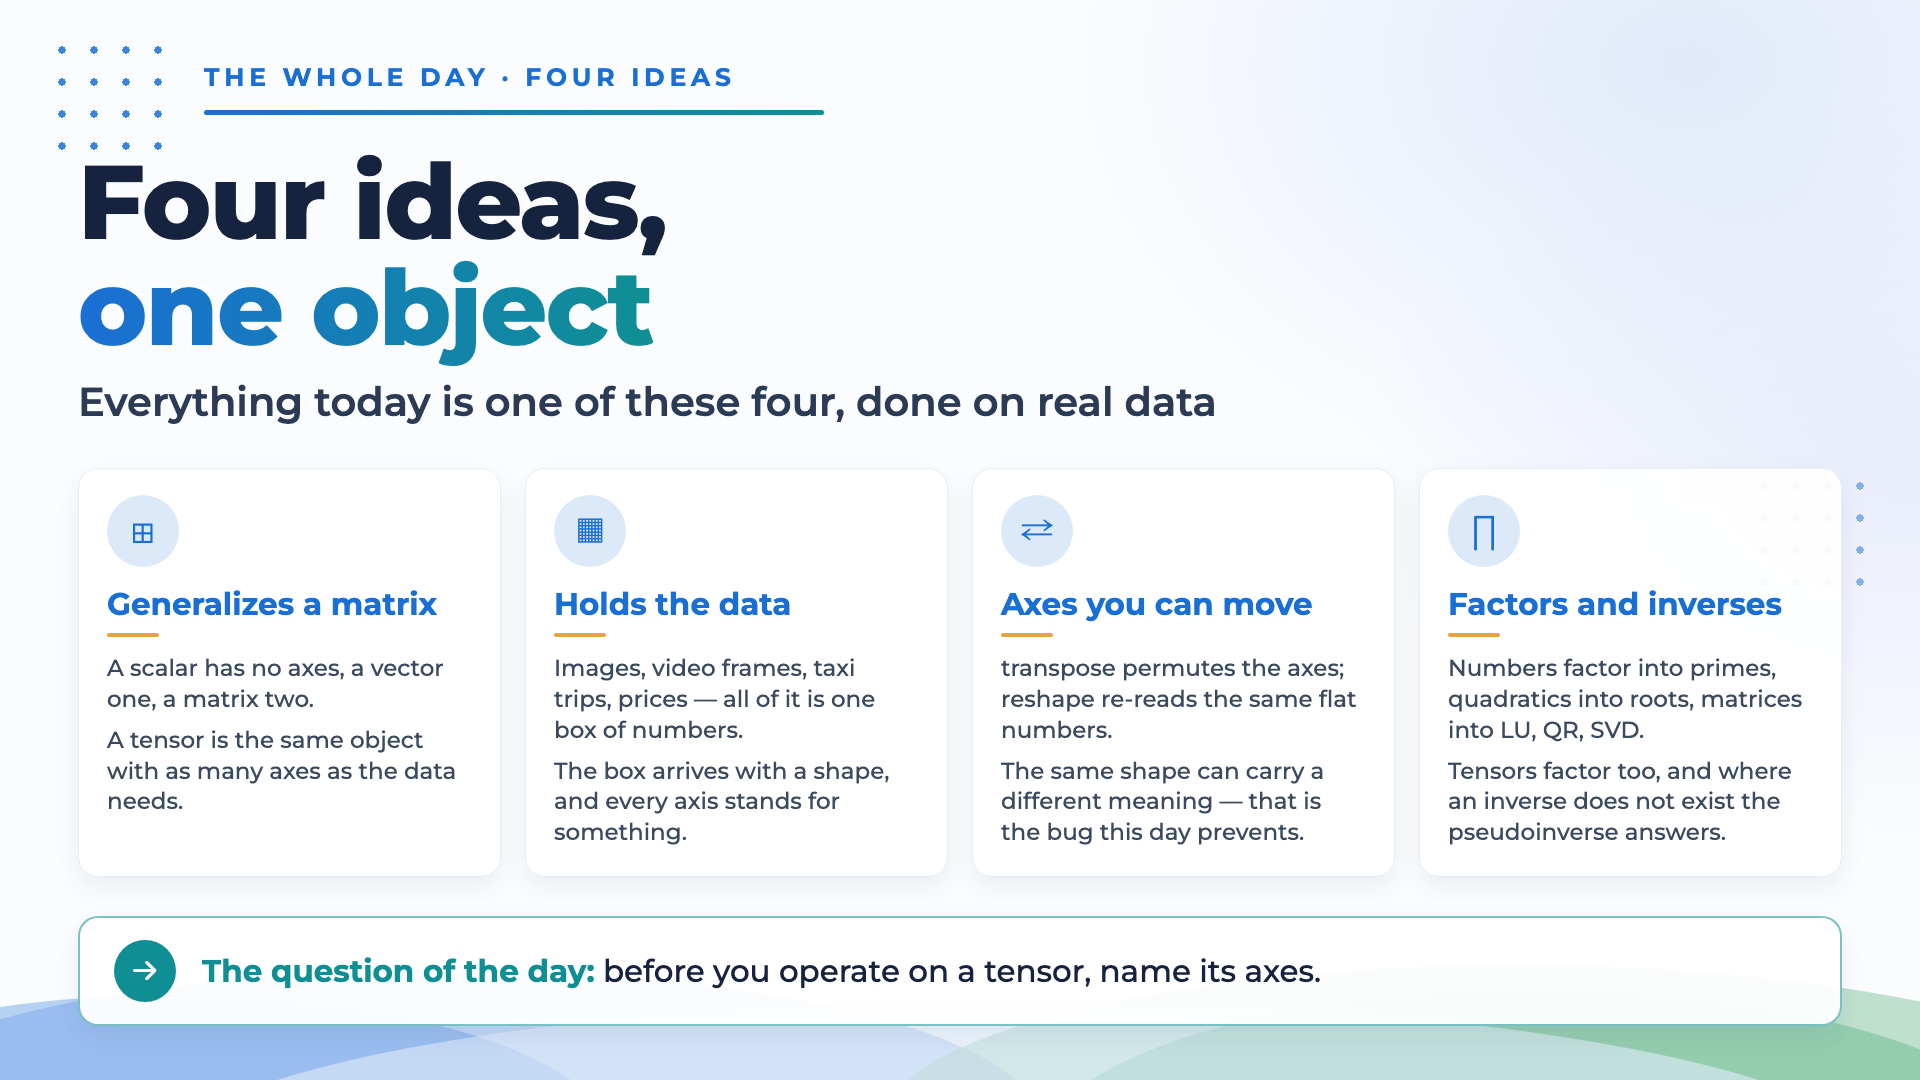
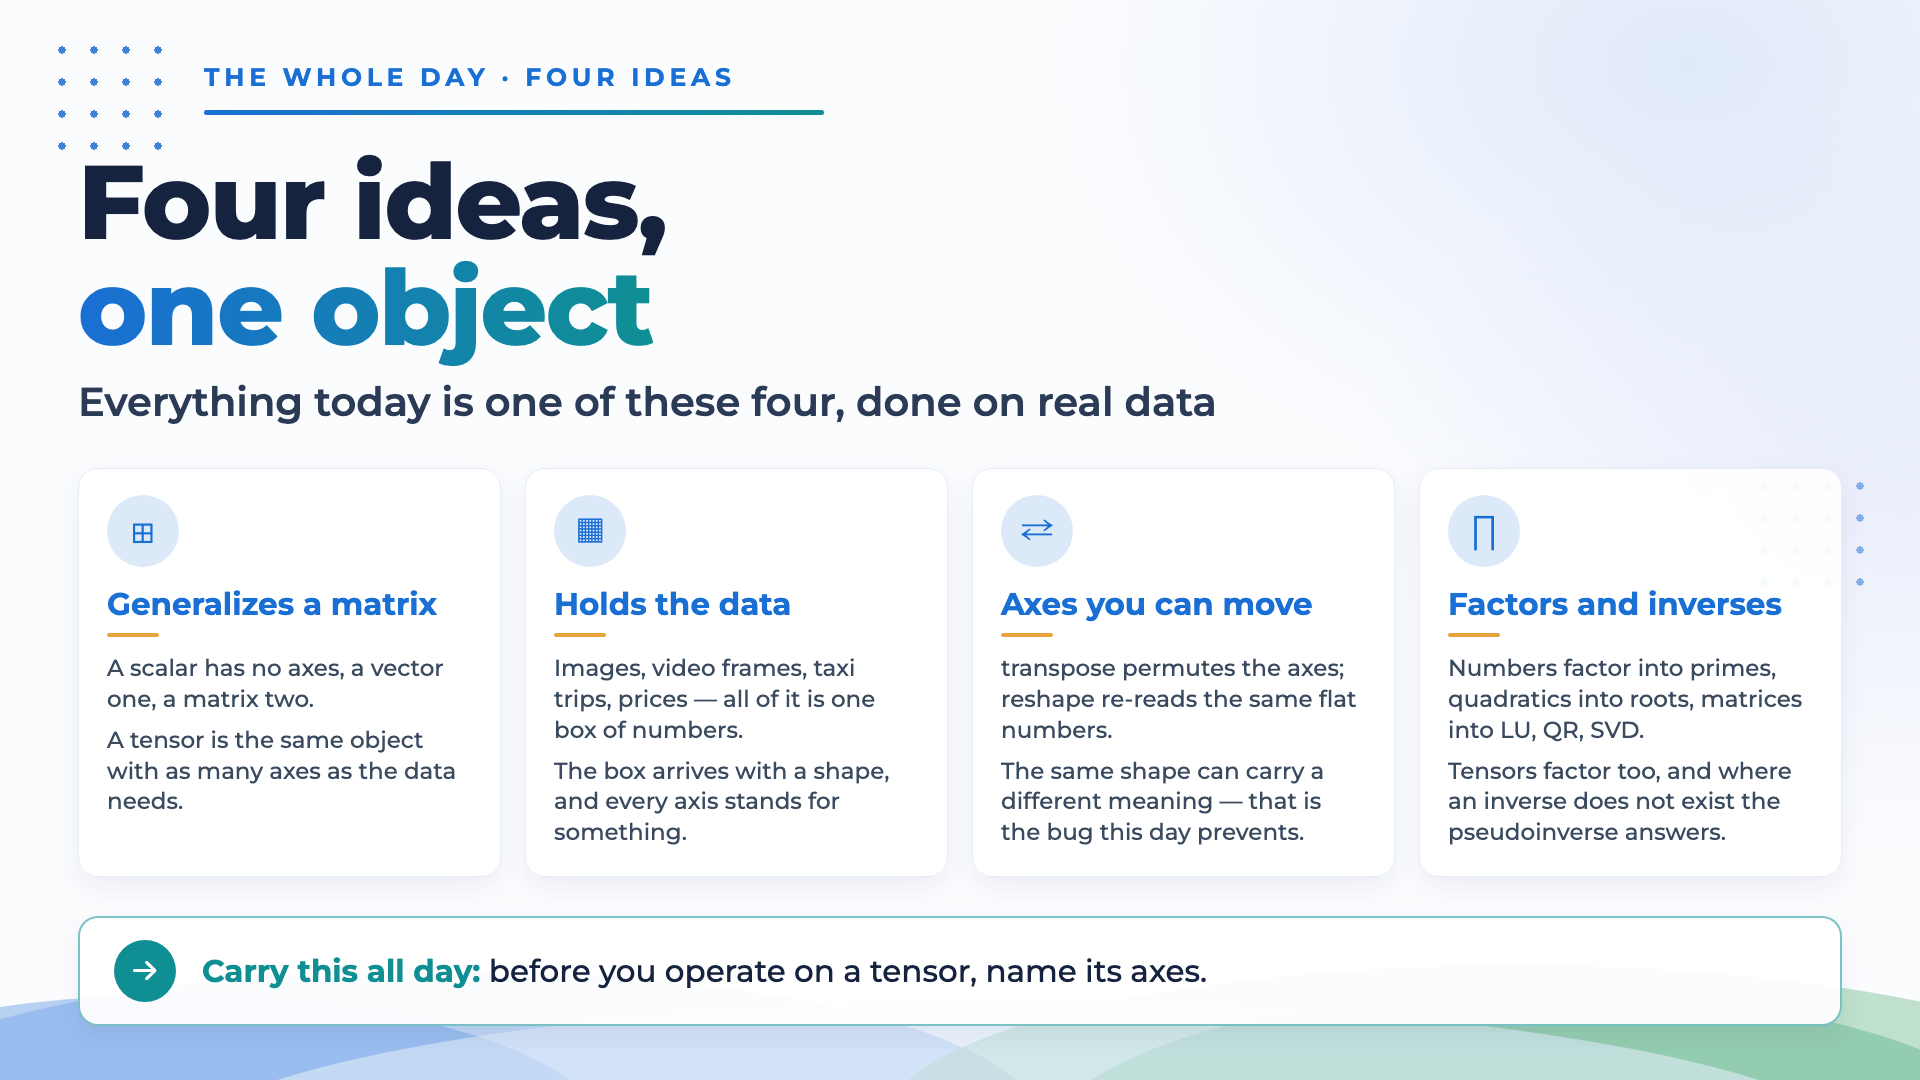
fix: the ES card lost a rung, and 02a asked the day's question twice
Review of #74 found the Spanish card 4 dropped the quadratics rung the English
card and the ES sr-only text both keep, and that slide-02's own art already
announces the question of the day, so 02a announced it again one slide later.
The ES card now carries the rung -- shortened, with a one-line heading, so it
clears the callout bar -- and 02a states the instruction instead. Also fixes
the comment above SLIDES, which still called slide-20a the first insertion.

#74 merged before these landed on the branch.

Claude-Session: https://claude.ai/code/session_01BJ7iLG8KZYwUdBm2RP5gg9

Changed region(s): [[0.0938, 0.8861, 0.6875, 0.9167]]

diff --git a/docs/slides/es/index.html b/docs/slides/es/index.html
@@ -155,7 +155,7 @@ La idea del workshop: cuatro tarjetas muestran escalar, vector, matriz y tensor 
 <section id="section-2" class="slide level2" data-background-image="images/slides-final/slide-02a.png" data-background-size="contain" data-background-repeat="no-repeat" data-background-position="center" data-background-color="#ffffff">
 <h2></h2>
 <p class="sr-only">
-Cuatro ideas, un solo objeto — todo el día en cuatro tarjetas. Un tensor generaliza la matriz: un escalar no tiene ejes, un vector uno, una matriz dos, y un tensor tantos como pidan los datos. Contiene los datos: imágenes, fotogramas, viajes en taxi y precios son una sola caja de números, y cada eje representa algo. Sus ejes se mueven: transpose los permuta, reshape relee los mismos números planos, y la misma forma puede tener otro significado. Y se factoriza: los números en primos, las cuadráticas en raíces, las matrices en LU, QR y SVD, y los tensores también — y donde no hay inversa, responde la pseudoinversa. La pregunta del día: antes de operar sobre un tensor, nombra sus ejes.
+Cuatro ideas, un solo objeto — todo el día en cuatro tarjetas. Un tensor generaliza la matriz: un escalar no tiene ejes, un vector uno, una matriz dos, y un tensor tantos como pidan los datos. Contiene los datos: imágenes, fotogramas, viajes en taxi y precios son una sola caja de números, y cada eje representa algo. Sus ejes se mueven: transpose los permuta, reshape relee los mismos números planos, y la misma forma puede tener otro significado. Y se factoriza: los números en primos, las cuadráticas en raíces, las matrices en LU, QR y SVD, y los tensores también — y donde no hay inversa, responde la pseudoinversa. Llévate esto todo el día: antes de operar sobre un tensor, nombra sus ejes.
 </p>
 <aside class="notes">
 <p>Este es el mapa de todo el día, y la única diapositiva que muestra las cuatro ideas juntas. Dedícale un minuto, no cinco: cada tarjeta se abre después — la 1 en la sección 01, la 2 en las secciones 02 y 03, la 3 en la sección 04, y la 4 en las secciones 07, 09, 10 y 11.</p>

diff --git a/docs/slides/en/index.html b/docs/slides/en/index.html
@@ -155,7 +155,7 @@ The workshop idea: four cards show scalar, vector, matrix and tensor as 0D, 1D, 
 <section id="section-2" class="slide level2" data-background-image="images/slides-final/slide-02a.png" data-background-size="contain" data-background-repeat="no-repeat" data-background-position="center" data-background-color="#ffffff">
 <h2></h2>
 <p class="sr-only">
-Four ideas, one object — the whole day in four cards. A tensor generalizes a matrix: a scalar has no axes, a vector one, a matrix two, and a tensor as many as the data needs. It holds the data: images, video frames, taxi trips and prices are all one box of numbers, and every axis stands for something. Its axes can be moved: transpose permutes them, reshape re-reads the same flat numbers, and the same shape can carry a different meaning. And it factors: numbers into primes, quadratics into roots, matrices into LU, QR and SVD, tensors too — and where an inverse does not exist, the pseudoinverse answers. The question of the day: before you operate on a tensor, name its axes.
+Four ideas, one object — the whole day in four cards. A tensor generalizes a matrix: a scalar has no axes, a vector one, a matrix two, and a tensor as many as the data needs. It holds the data: images, video frames, taxi trips and prices are all one box of numbers, and every axis stands for something. Its axes can be moved: transpose permutes them, reshape re-reads the same flat numbers, and the same shape can carry a different meaning. And it factors: numbers into primes, quadratics into roots, matrices into LU, QR and SVD, tensors too — and where an inverse does not exist, the pseudoinverse answers. Carry this all day: before you operate on a tensor, name its axes.
 </p>
 <aside class="notes">
 <p>This is the map of the whole day, and the only slide that shows all four ideas at once. Spend a minute on it, not five: each card is opened properly later — card 1 in section 01, card 2 in sections 02 and 03, card 3 in section 04, card 4 in sections 07, 09, 10 and 11.</p>

diff --git a/scripts/gen_slide_art.py b/scripts/gen_slide_art.py
@@ -25,9 +25,9 @@ Two things it deliberately does not do:
   * **No page number.** The existing art bakes the number into the bottom-right
     corner, so an insertion leaves every later baked number ahead of its true
     position -- and `slide-02a` puts the first insertion in the opening run, so
-    that is every numbered slide but two. Redrawing thirty-one PNGs to fix a
-    decoration is not worth it; the new slides simply carry no number, and
-    `slides/README.md` records that the baked ones are not authoritative.
+    that is `slide-03` through `slide-31`, twenty-nine of them. Redrawing them
+    to fix a decoration is not worth it; the new slides simply carry no number,
+    and `slides/README.md` records that the baked ones are not authoritative.
   * **No lightbulb in the callout bar.** The existing bars put a lightbulb glyph
     in the teal disc. #65 is an argument against exactly that mark -- it labels
     a fact as an insight -- so the disc here holds an arrow. The shape and the
@@ -85,9 +85,10 @@ FONT_STACK = ('Montserrat, "Avenir Next", "Segoe UI", system-ui, '
 
 
 # ── The copy ────────────────────────────────────────────────────────────────
-# One entry per new slide. `stem` is the PNG name: the letter suffix says this
-# slide was inserted after `slide-20`, rather than renumbering fourteen files
-# whose numbers are painted on.
+# One entry per new slide, and the first of them, `slide-02a`, opens the deck.
+# `stem` is the PNG name: the letter suffix says the slide was inserted after
+# the one it names, rather than renumbering every later file whose number is
+# painted on.
 #
 # A card is (glyph, heading, [lines]). The glyphs on 20a are the shapes
 # themselves -- a square, a hatched square, a tall bar, a wide bar -- which is
@@ -126,7 +127,7 @@ SLIDES = [
                     "the pseudoinverse answers.",
                 ]),
             ],
-            "callout": ("The question of the day:", "before you operate on a "
+            "callout": ("Carry this all day:", "before you operate on a "
                         "tensor, name its axes."),
         },
         "es": {
@@ -151,15 +152,15 @@ SLIDES = [
                     "La misma forma puede tener otro significado: ese es el "
                     "error que este día evita.",
                 ]),
-                ("∏", "Factorizaciones e inversas", [
-                    "Los números se factorizan en primos; las matrices en "
-                    "LU, QR, SVD.",
-                    "Los tensores también, y donde no hay inversa responde "
-                    "la pseudoinversa.",
+                ("∏", "Factoriza e invierte", [
+                    "Los números en primos, las cuadráticas en raíces, las "
+                    "matrices en LU, QR, SVD.",
+                    "Los tensores también; y sin inversa, responde la "
+                    "pseudoinversa.",
                 ]),
             ],
-            "callout": ("La pregunta del día:", "antes de operar sobre un "
-                        "tensor, nombra sus ejes."),
+            "callout": ("Llévate esto todo el día:", "antes de operar sobre "
+                        "un tensor, nombra sus ejes."),
         },
     },
     {
